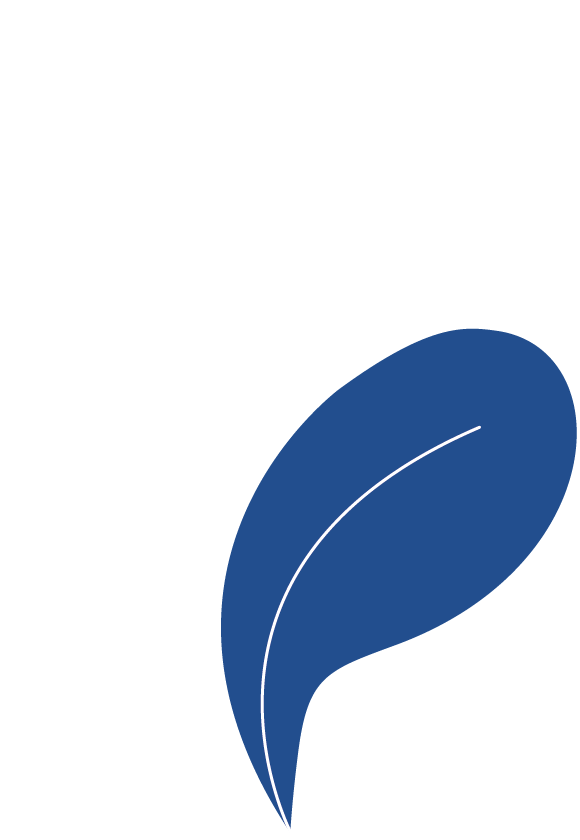
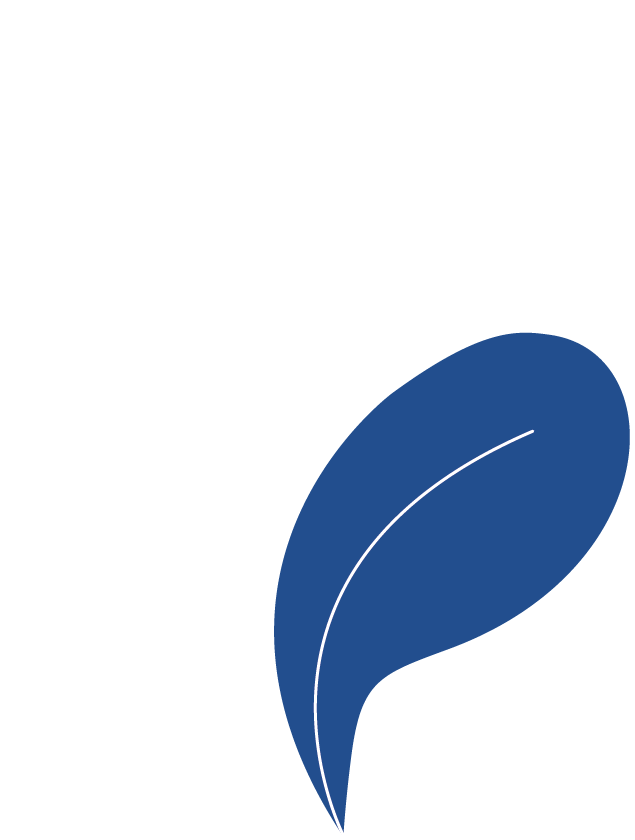
flower ok, need to add details, version 0.75

diff --git a/public/index.html b/public/index.html
@@ -66,13 +66,13 @@
 
             </div>
         </div>
-        <div class="line-wrapper">
-            <img src="image/lineTop.png" alt="flower" class="image">
+        <div id="first-line-wrapper">
+            <img src="image/lineTop.png" alt="flower" class="image layer" data-depth="2">
         </div>
         <div class="flower-wrapper" id="first-flower-wrapper">
-            <img src="image/flower/flower1A.png" alt="flower" class="image layer" data-depth="0.35">
-            <img src="image/flower/flower1B.png" alt="flower" class="image layer" data-depth="0.6">
             <img src="image/flower/flower1C.png" alt="flower" class="image layer" data-depth="0.2">
+            <img src="image/flower/flower1B.png" alt="flower" class="image layer" data-depth="0.2">
+            <img src="image/flower/flower1A.png" alt="flower" class="image layer" data-depth="0.2">
             <img src="image/line1.png" alt="line" class="image layer" data-depth="0.2">
         </div>
     </section>
@@ -88,9 +88,12 @@
 
             </div>
         </div>
+        <div id="second-line-wrapper">
+            <img src="image/lineTop.png" alt="flower" class="image layer" data-depth="2">
+        </div>
         <div class="flower-wrapper" id="second-flower-wrapper">
-            <img src="image/flower/flower2A.png" alt="flower" class="image layer" data-depth="0.35">
-            <img src="image/flower/flower2B.png" alt="flower" class="image layer" data-depth="0.6">
+            <img src="image/flower/flower2A.png" alt="flower" class="image layer" data-depth="0.2">
+            <img src="image/flower/flower2B.png" alt="flower" class="image layer" data-depth="0.2">
             <img src="image/flower/flower2C.png" alt="flower" class="image layer" data-depth="0.2">
             <img src="image/line2.png" alt="line" class="image layer" data-depth="0.2">
         </div>
@@ -107,9 +110,12 @@
 
             </div>
         </div>
+        <div id="third-line-wrapper">
+            <img src="image/lineTop.png" alt="flower" class="image layer" data-depth="2">
+        </div>
         <div class="flower-wrapper" id="third-flower-wrapper">
-            <img src="image/flower/flower3A.png" alt="flower" class="image layer" data-depth="0.35">
-            <img src="image/flower/flower3B.png" alt="flower" class="image layer" data-depth="0.6">
+            <img src="image/flower/flower3A.png" alt="flower" class="image layer" data-depth="0.2">
+            <img src="image/flower/flower3B.png" alt="flower" class="image layer" data-depth="0.2">
             <img src="image/flower/flower3C.png" alt="flower" class="image layer" data-depth="0.2">
             <img src="image/line3.png" alt="line" class="image layer" data-depth="0.2">
         </div>
@@ -121,9 +127,9 @@
             </div>
         </div>
         <div id="info-contact">
-            <h1 class="info-contact-text">641 route d'Albertville</h1>
-            <h1 class="info-contact-text">+33 06 09 45 42 81</h1>
-            <h1 class="info-contact-text">Yohan_quinquis@icloud.com</h1>
+            <h1 class="info-contact-text">Annecy et Lyon</h1>
+            <h1 class="info-contact-text">+33 07 50 80 14 12</h1>
+            <h1 class="info-contact-text">Marine.quetaud@gmail.com</h1>
         </div>
     </section>
 </div>

diff --git a/public/style/home.scss b/public/style/home.scss
@@ -156,9 +156,9 @@ $lightBlue: #507FBA;
 #welcome-right-wrapper {
   position: absolute;
   top: 3vh;
-  right: -1vw;
+  right: -7vw;
   height: 94vh;
-  width: 50vw;
+  width: 65vw;
 }
 
 .image {
@@ -255,7 +255,7 @@ $lightBlue: #507FBA;
   font-family: como,sans-serif;
   font-weight: 700;
   font-style: normal;
-  font-size: 4vw;
+  font-size: 4.5vw;
   display: flex;
   color: $blue;
   align-items: center;
@@ -275,7 +275,7 @@ $lightBlue: #507FBA;
 .project-subtitle {
   font-family: neuzeit-grotesk, sans-serif;
   color: $lightBlue;
-  font-size: 2.5vw;
+  font-size: 3.5vw;
   font-style: normal;
   font-weight: bold;
 }
@@ -302,24 +302,6 @@ $lightBlue: #507FBA;
   transform: scale(1.1);
   opacity: 1;
   transition: all 0.5s cubic-bezier(0.25, 1, 0.3, 1);
-}
-
-.flower-wrapper {
-  position: absolute;
-  top: 45vh;
-  left: 27.5vw;
-  height: 45vh;
-  width: 17.5vw;
-  z-index: 10;
-}
-
-.line-wrapper {
-  position: absolute;
-  top: 25vh;
-  left: 40vw;
-  height: 60vh;
-  width: 30vw;
-  z-index: -1;
 }
 
 // Second Project
@@ -389,7 +371,7 @@ $lightBlue: #507FBA;
 
 #third-project-subtitle-wrapper {
   position: absolute;
-  margin-top: 10vh;
+  margin-top: 22.5vh;
   left: 0;
   height: 7vh;
   z-index: 1;
@@ -410,6 +392,59 @@ $lightBlue: #507FBA;
   transform: scale(1.1);
   opacity: 1;
   transition: all 0.5s cubic-bezier(0.25, 1, 0.3, 1);
+}
+
+/*---------------------------------------------Flower------------------------------------------*/
+
+#first-flower-wrapper {
+  position: absolute;
+  top: 45vh;
+  left: 27.5vw;
+  height: 45vh;
+  width: 17.5vw;
+  z-index: 10;
+}
+
+#first-line-wrapper {
+  position: absolute;
+  top: 26vh;
+  left: 64vw;
+  height: 7vh;
+  width: 4vw;
+}
+
+#second-flower-wrapper {
+  position: absolute;
+  top: 50vh;
+  left: 35vw;
+  height: 45vh;
+  width: 17.5vw;
+  z-index: 10;
+}
+
+#second-line-wrapper {
+  position: absolute;
+  top: 26vh;
+  left: 57vw;
+  height: 7vh;
+  width: 4vw;
+}
+
+#third-flower-wrapper {
+  position: absolute;
+  top: 50vh;
+  left: 35vw;
+  height: 45vh;
+  width: 17.5vw;
+  z-index: 10;
+}
+
+#third-line-wrapper {
+  position: absolute;
+  top: 26vh;
+  left: 59vw;
+  height: 7vh;
+  width: 4vw;
 }
 
 /*---------------------------------------------Projects------------------------------------------*/
@@ -444,3 +479,5 @@ $lightBlue: #507FBA;
   font-size: 1.3vw;
   margin-left: 2vw;
 }
+
+

diff --git a/public/style/home.css b/public/style/home.css
@@ -142,9 +142,9 @@ body {
 #welcome-right-wrapper {
   position: absolute;
   top: 3vh;
-  right: -1vw;
+  right: -7vw;
   height: 94vh;
-  width: 50vw;
+  width: 65vw;
 }
 
 .image {
@@ -240,7 +240,7 @@ body {
   font-family: como, sans-serif;
   font-weight: 700;
   font-style: normal;
-  font-size: 4vw;
+  font-size: 4.5vw;
   display: flex;
   color: #274E8D;
   align-items: center;
@@ -260,7 +260,7 @@ body {
 .project-subtitle {
   font-family: neuzeit-grotesk, sans-serif;
   color: #507FBA;
-  font-size: 2.5vw;
+  font-size: 3.5vw;
   font-style: normal;
   font-weight: bold;
 }
@@ -287,24 +287,6 @@ body {
   transform: scale(1.1);
   opacity: 1;
   transition: all 0.5s cubic-bezier(0.25, 1, 0.3, 1);
-}
-
-.flower-wrapper {
-  position: absolute;
-  top: 45vh;
-  left: 27.5vw;
-  height: 45vh;
-  width: 17.5vw;
-  z-index: 10;
-}
-
-.line-wrapper {
-  position: absolute;
-  top: 25vh;
-  left: 40vw;
-  height: 60vh;
-  width: 30vw;
-  z-index: -1;
 }
 
 #second-project-wrapper {
@@ -370,7 +352,7 @@ body {
 
 #third-project-subtitle-wrapper {
   position: absolute;
-  margin-top: 10vh;
+  margin-top: 22.5vh;
   left: 0;
   height: 7vh;
   z-index: 1;
@@ -391,6 +373,58 @@ body {
   transform: scale(1.1);
   opacity: 1;
   transition: all 0.5s cubic-bezier(0.25, 1, 0.3, 1);
+}
+
+/*---------------------------------------------Flower------------------------------------------*/
+#first-flower-wrapper {
+  position: absolute;
+  top: 45vh;
+  left: 27.5vw;
+  height: 45vh;
+  width: 17.5vw;
+  z-index: 10;
+}
+
+#first-line-wrapper {
+  position: absolute;
+  top: 26vh;
+  left: 64vw;
+  height: 7vh;
+  width: 4vw;
+}
+
+#second-flower-wrapper {
+  position: absolute;
+  top: 50vh;
+  left: 35vw;
+  height: 45vh;
+  width: 17.5vw;
+  z-index: 10;
+}
+
+#second-line-wrapper {
+  position: absolute;
+  top: 26vh;
+  left: 57vw;
+  height: 7vh;
+  width: 4vw;
+}
+
+#third-flower-wrapper {
+  position: absolute;
+  top: 50vh;
+  left: 35vw;
+  height: 45vh;
+  width: 17.5vw;
+  z-index: 10;
+}
+
+#third-line-wrapper {
+  position: absolute;
+  top: 26vh;
+  left: 59vw;
+  height: 7vh;
+  width: 4vw;
 }
 
 /*---------------------------------------------Projects------------------------------------------*/

diff --git a/public/js/home.js b/public/js/home.js
@@ -139,6 +139,21 @@ let thirdParallaxFlower = new Parallax(thirdFlowerWrapper, {
     pointerEvents: true,
 })
 
+const firstLineTopWrapper = document.querySelector("#first-line-wrapper")
+let firstLineWrapper = new Parallax(firstLineTopWrapper, {
+    pointerEvents: true,
+})
+
+const secondLineTopWrapper = document.querySelector("#second-line-wrapper")
+let secondLineWrapper = new Parallax(secondLineTopWrapper, {
+    pointerEvents: true,
+})
+
+const thirdLineTopWrapper = document.querySelector("#third-line-wrapper")
+let thirdLineWrapper = new Parallax(thirdLineTopWrapper, {
+    pointerEvents: true,
+})
+
 /*---------------------------------------Insert Projects------------------------------------------*/
 
 const firstProjectTitleWrapper = document.getElementById('first-project-title-wrapper')
@@ -191,9 +206,9 @@ const requestProjects = async () => {
                 welcomeImageWrapper.innerHTML = `<img src="${data.images.hidpi}" alt="welcome" class="image">`
             }
 
-            let verifProjects = data.description.indexOf("projet")
+            let verifProjects = data.description.indexOf("Projets")
             if ((verifProjects !== -1) && (verifProjects < 30)) {
-                mesProjets.innerHTML = `<img src="${data.images.hidpi}" alt="project" class="image">`
+                mesProjets.innerHTML += `<img src="${data.images.hidpi}" alt="project" class="image">`
             }
 
         })
